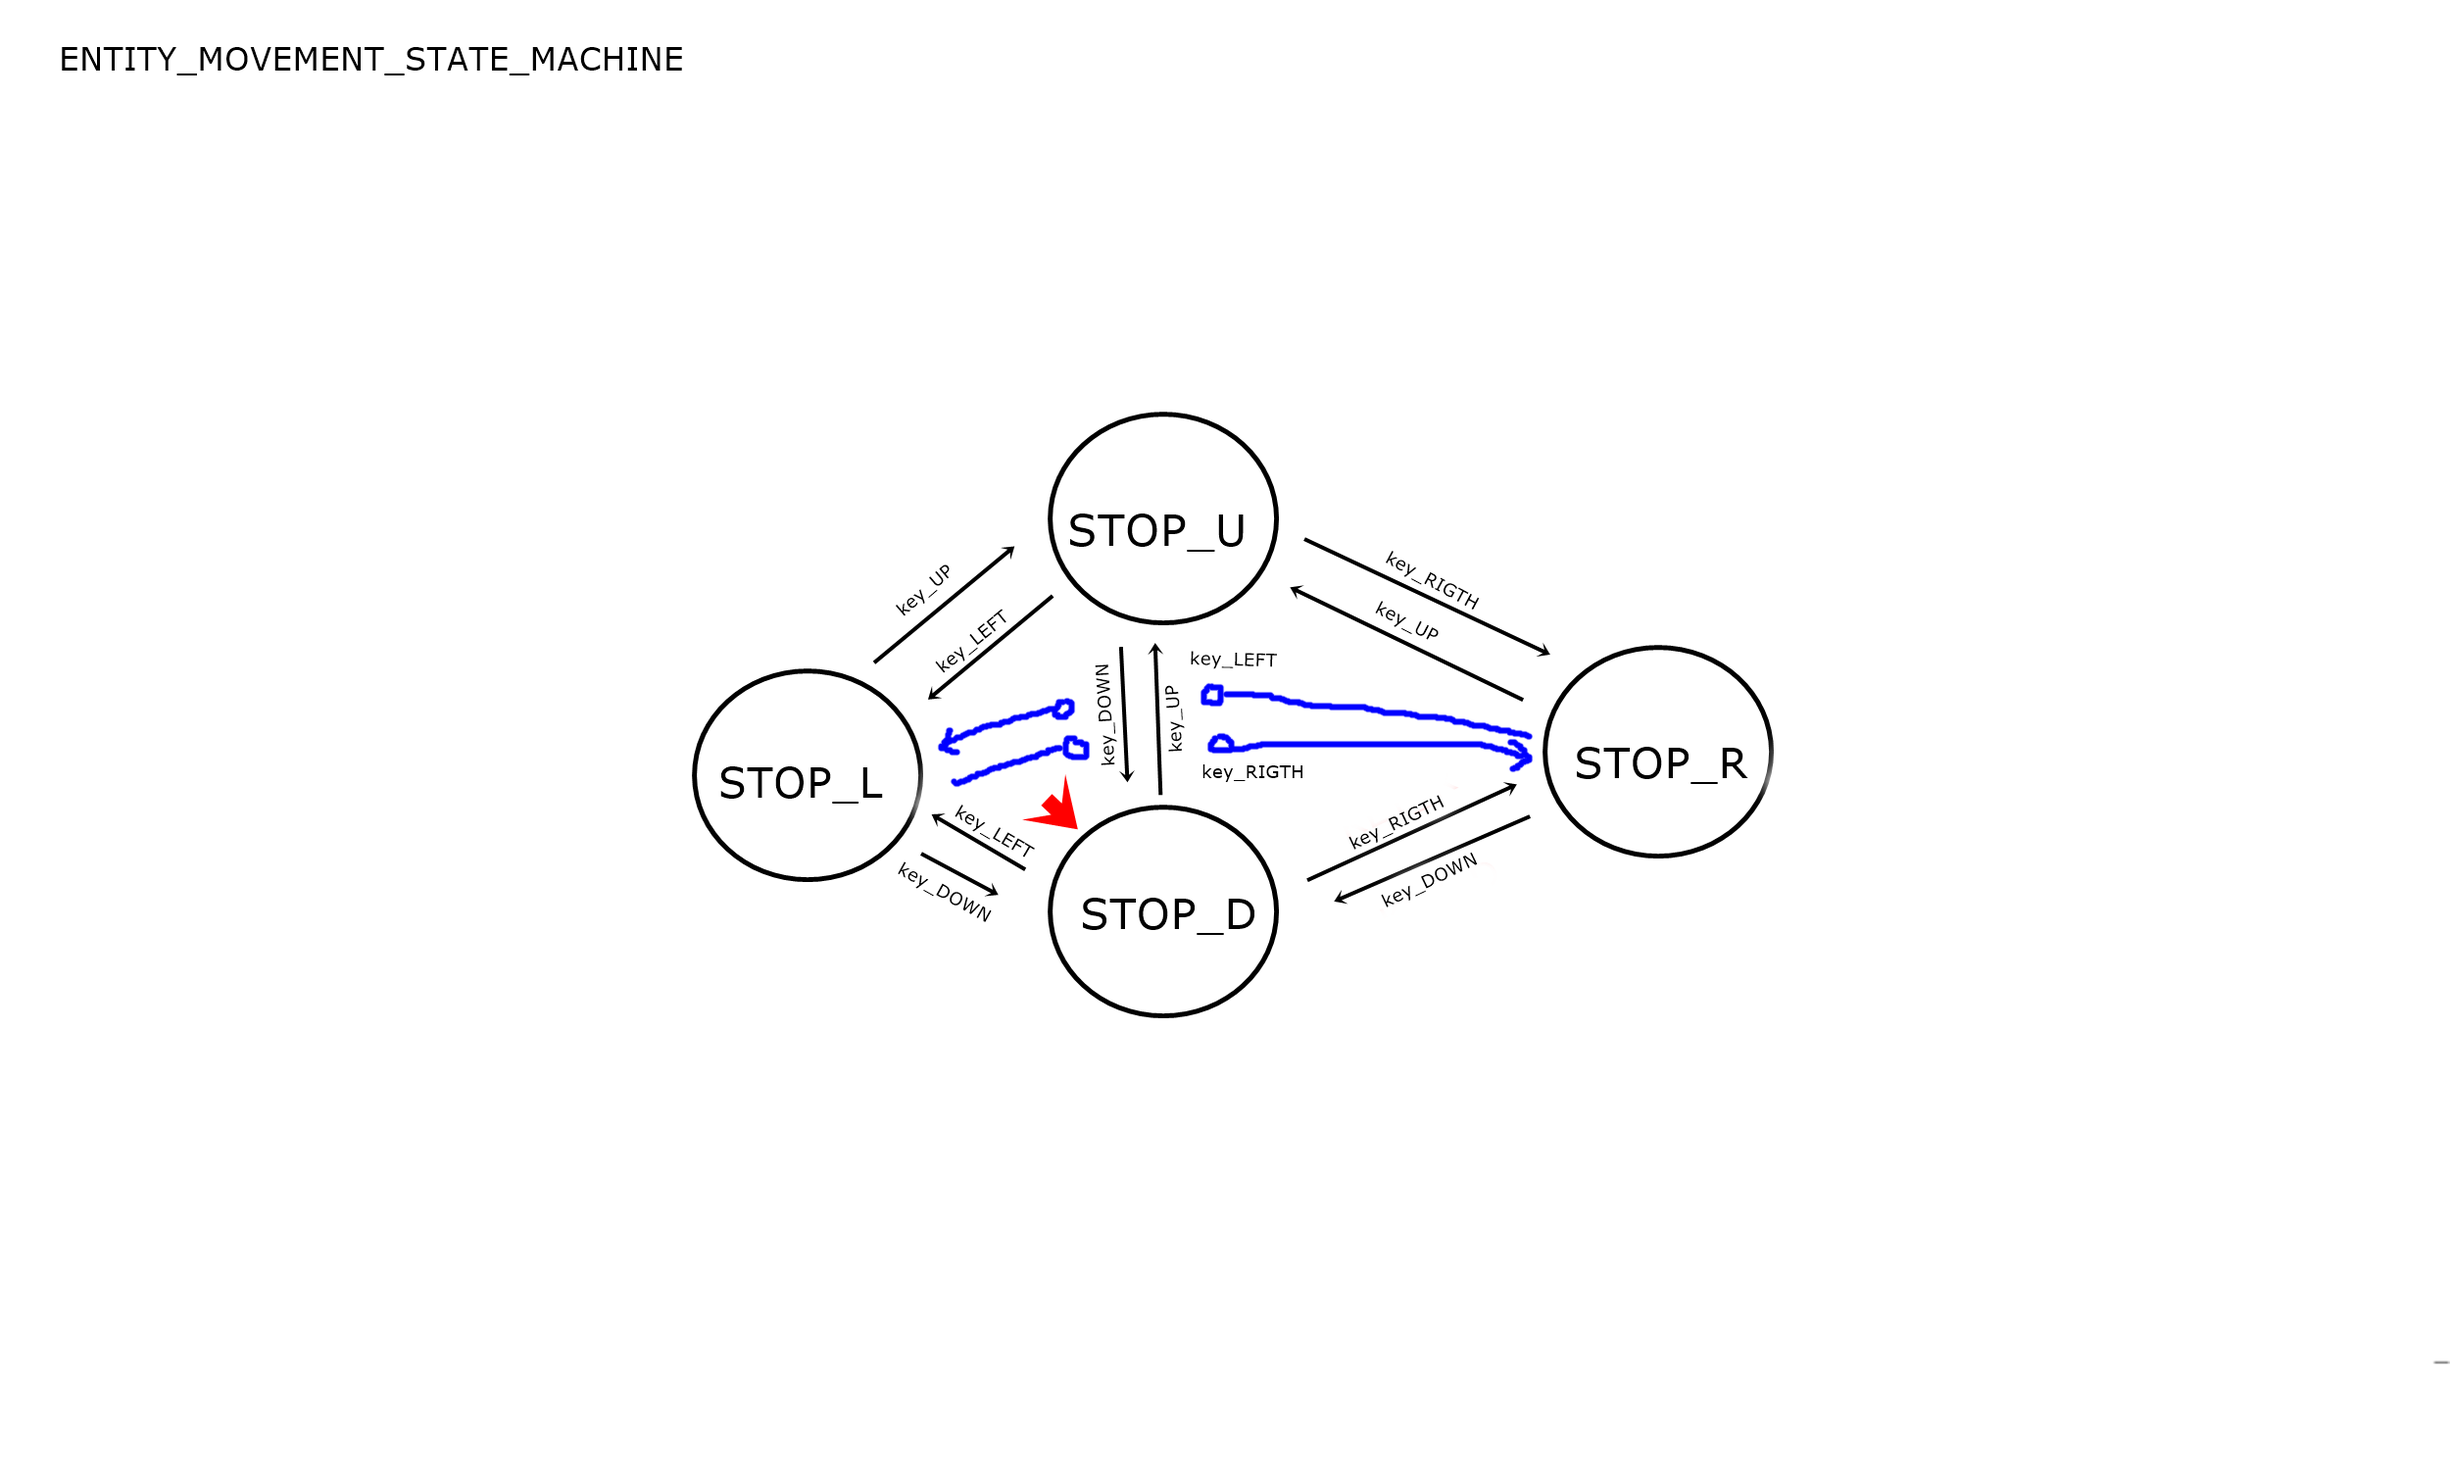
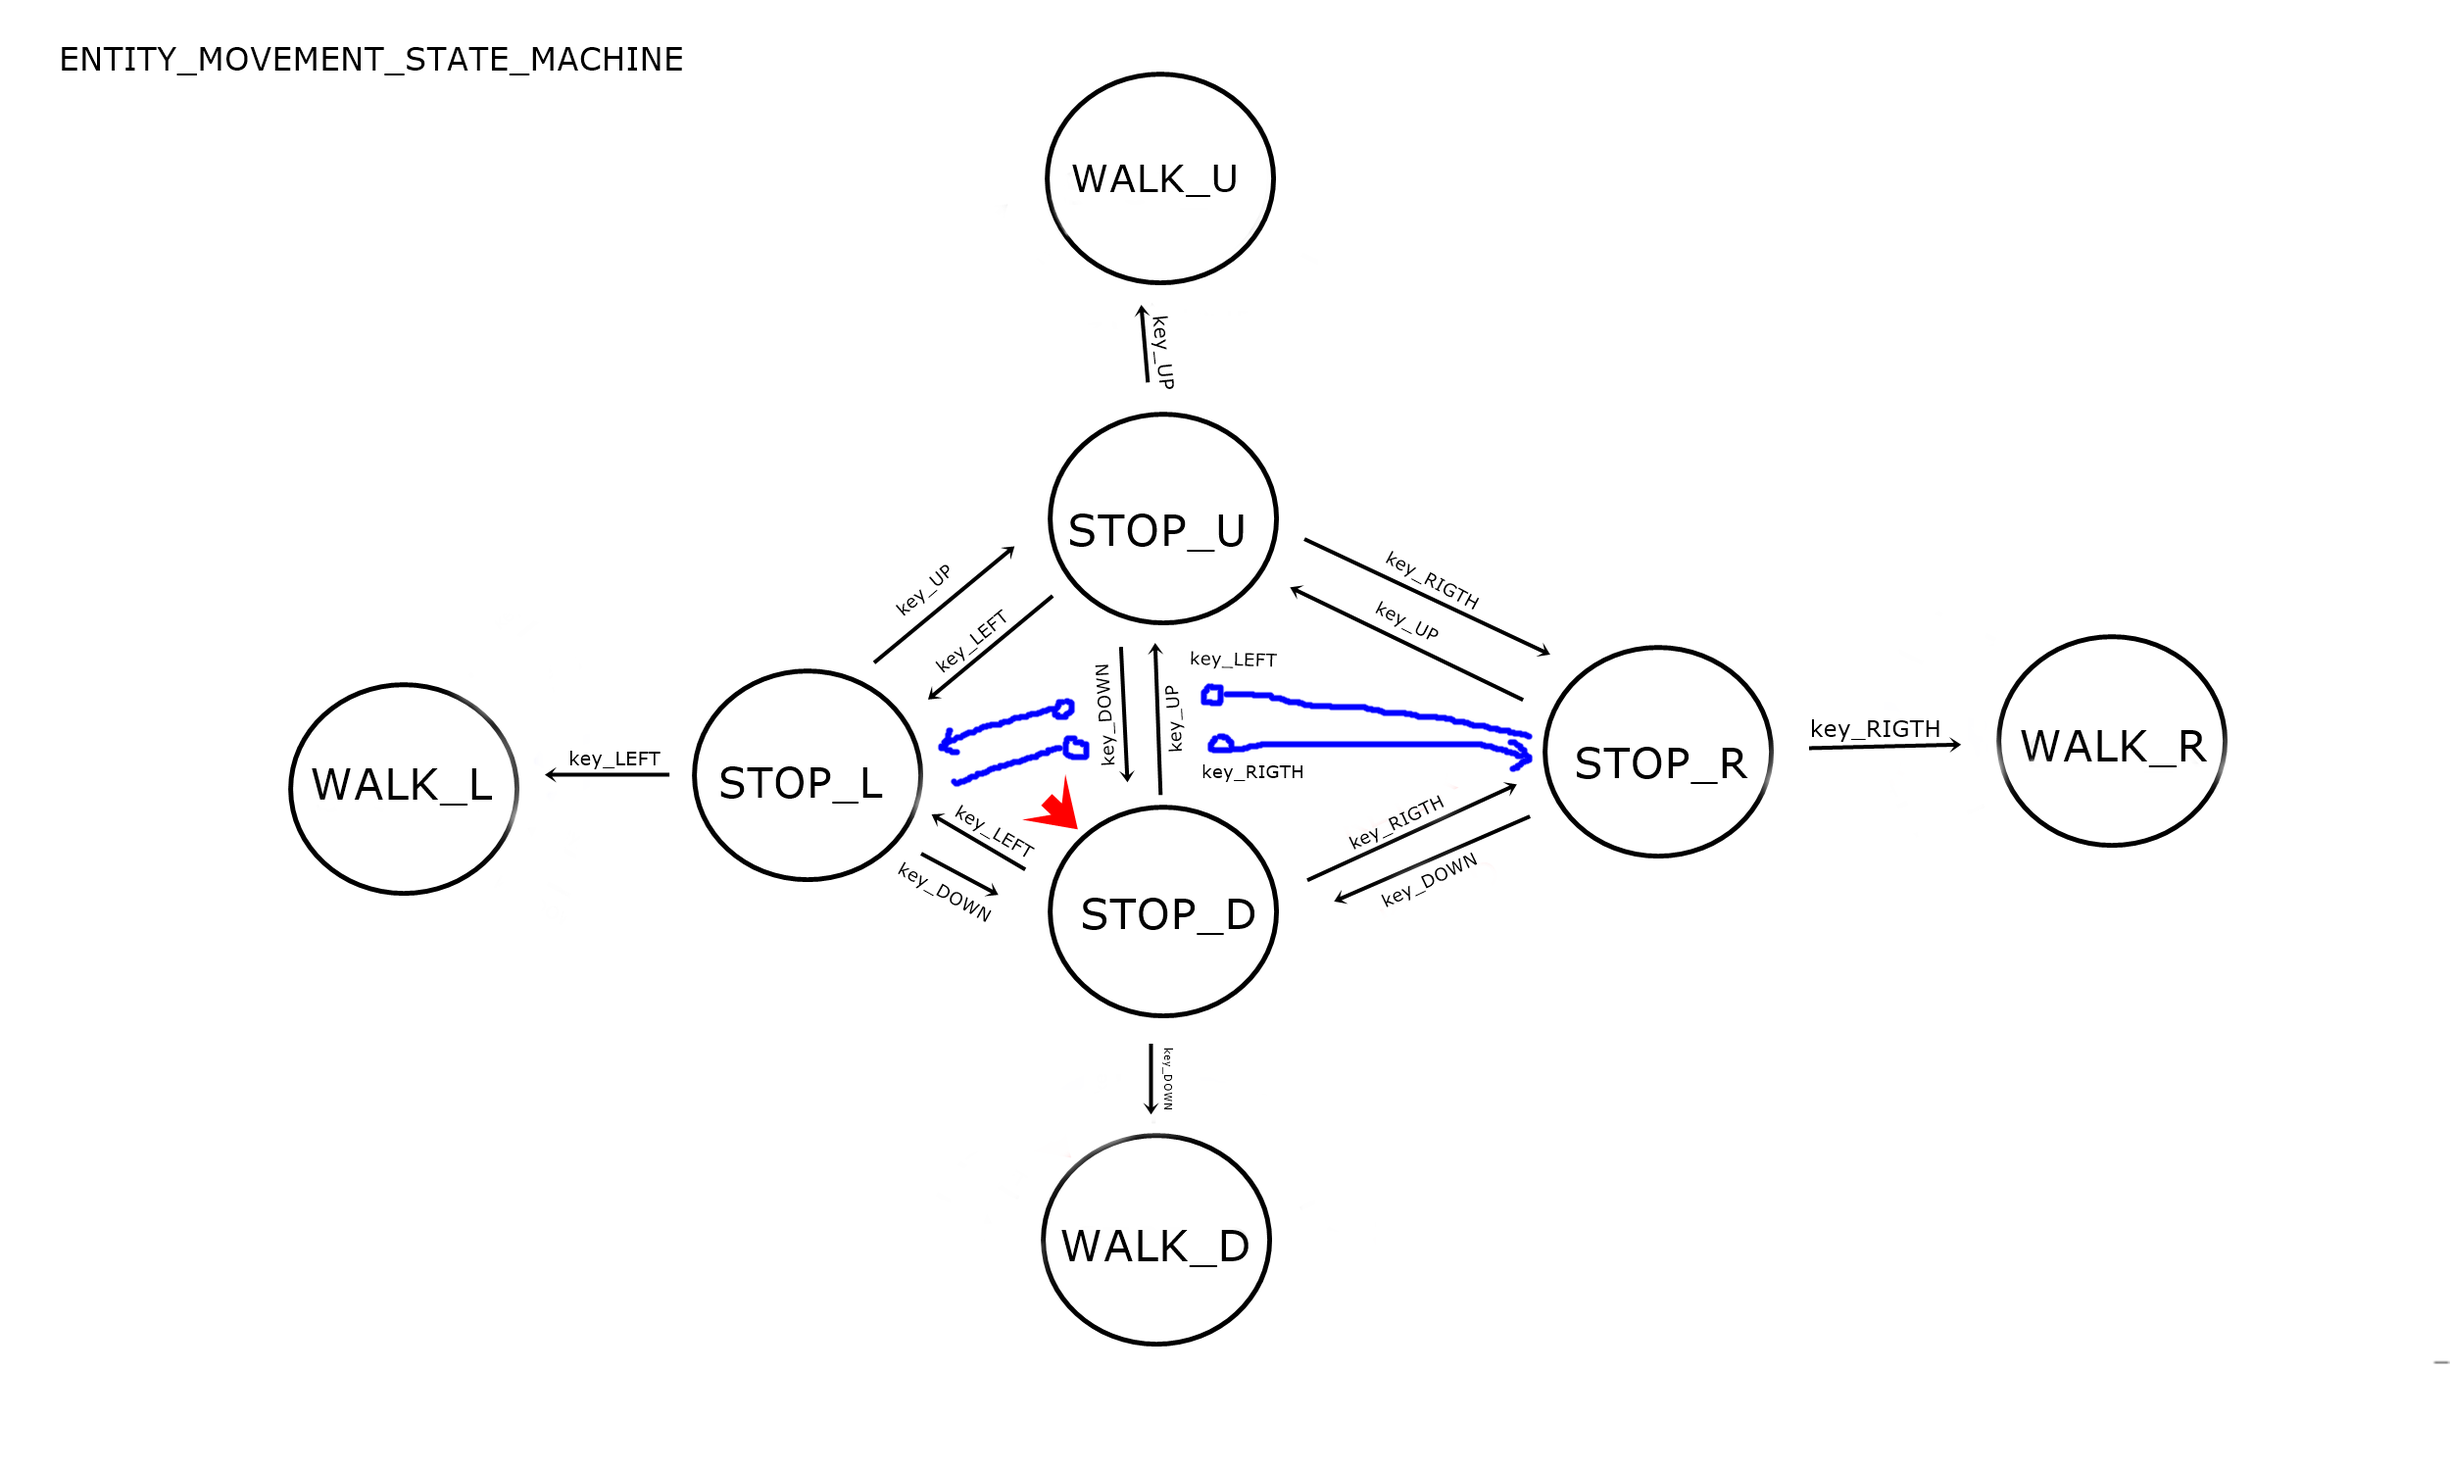
WIP: Animations

diff --git a/src/core/controller.py b/src/core/controller.py
@@ -44,7 +44,8 @@ class Controller:
         self.dt = 1.0 / float(self.config.get("FPS"))
         self.logger = GameLogger.get_instance(self.config)
         self.logger.info(f"CONTROLLERGAME::MEMORY::DATA::SIZE:{self.config.get_config_memory_kb():.2f}KB")
-        self.logger.info(f"CONTROLLERGAME::GAME::STATE_MACHINES::{self.config.get("statesMachines")}")
+        self.logger.info(f"CONTROLLERGAME::GAME::STATE_MACHINES::{self.config.get("statesMachines").keys()}")
+        print(self.config.get("statesMachines"))
         self.control = Control(
             self.config.get('key_UP'),
             self.config.get('key_RIGTH'),
@@ -59,10 +60,10 @@ class Controller:
             self.config.get('key_L'),
             self.config.get('key_R')
         )
-        # Player
-        self.player = Player(self.config)
         # Sprites & IMAGES
         self.assetManager = AssetManager.get_instance()
+        # Player
+        self.player = Player(self.config)
         self._load_assets()
         # Game fun Machines
         self.current_state = None
@@ -145,13 +146,22 @@ class Controller:
         self.assetManager.save_images_group("advisory" , f"assets/images/{self.config.get("displayH")}/advisory.gif")
         self.assetManager.save_images_group("mainMenu" , f"assets/images/{self.config.get("displayH")}/mainMenu.gif")
 
-        player_sprites = {
-            "up": f"assets/images/{self.config.get("displayH")}/skins/player/{self.config.get("player_look_up")}",
-            "left": f"assets/images/{self.config.get("displayH")}/skins/player/{self.config.get("player_look_left")}",
-            "right": f"assets/images/{self.config.get("displayH")}/skins/player/{self.config.get("player_look_right")}",
-            "down": f"assets/images/{self.config.get("displayH")}/skins/player/{self.config.get("player_look_down")}"
-        }
-        self.assetManager.save_sprite_group("player", player_sprites)
+        _animated_sprite_group = {}
+        for itterStateAnimated in self.config.get("statesMachines")["animatedEntity"]["states"]:
+            _sprite = itterStateAnimated
+            _pathSprite = f"assets/images/{self.config.get("displayH")}/skins/player/{_sprite}.png"
+            _animated_sprite_group[_sprite] = _pathSprite
+            
+        _animated_sprite_group["up"] = f"assets/images/{self.config.get("displayH")}/skins/player/{self.config.get("player_look_up")}"
+        _animated_sprite_group["left"] = f"assets/images/{self.config.get("displayH")}/skins/player/{self.config.get("player_look_left")}"
+        _animated_sprite_group["right"] = f"assets/images/{self.config.get("displayH")}/skins/player/{self.config.get("player_look_right")}"
+        _animated_sprite_group["down"] = f"assets/images/{self.config.get("displayH")}/skins/player/{self.config.get("player_look_down")}"
+
+        try:
+            self.assetManager.save_sprite_group("animated", _animated_sprite_group)
+        except Exception as e:
+            self.logger.error(f"CONTROLLER::GAME::CREATE_SPRITES::FAILED_GROUP::{_animated_sprite_group}")
+            self.logger.error(f"CONTROLLERGAME::GAME::CREATE_SPRITES::ASSET_MANAGER_ERROR::{type(e).__name__}::{e}")
 
     def _exitGame(self, data):
         self.logger.info(f"CONTROLLERGAME::GAME::{data}::EXIT")

diff --git a/src/entities/player.py b/src/entities/player.py
@@ -9,6 +9,7 @@ from src.ecs.components import (
     HealthComponent,
     PositionComponent,
     SizeComponent,
+    AnimationStateMachineComponent,
     VelocityComponent,
     DirectionComponent,
     SpriteCoordsComponent,
@@ -51,6 +52,7 @@ class Player(Entity):
         ))
         self.add_component(PositionComponent(config.get("displayW")/4,config.get("displayH")/4))
         self.add_component(SizeComponent(config.get("player_w"),config.get("player_h")))
+        self.add_component(AnimationStateMachineComponent("animatedEntity", config.get('statesMachines')['animatedEntity']['initial']))
         self.add_component(StatisticsComponent(config.get("statistics")))
         stats = self.get_component(StatisticsComponent).statistics
         self.add_component(VelocityComponent(int(stats.velocity)))
@@ -63,12 +65,20 @@ class Player(Entity):
         self.assetManager = assetManager
 
     def getPlayerSprite(self):
+        # UPDATE DIRECTION
         direction = self.get_component(DirectionComponent)
         if direction.current_directions:
             current_dir = next(iter(direction.current_directions))
         else:
             current_dir = direction.last_direction
-        return self.assetManager.get_sprite("player", current_dir)
+
+        # UPDATE ANIMATION
+        animation = self.get_component(AnimationStateMachineComponent)
+        return self.assetManager.get_sprite("animated", animation.state)
+    
+    def updateAnimationStateMachineComponent(self, animationPointer):
+        animation = self.get_component(AnimationStateMachineComponent)
+        animation.state = animationPointer
 
     def getSpriteRenderCoords(self):
         sprite_coords = self.get_component(SpriteCoordsComponent)

diff --git a/src/core/control.py b/src/core/control.py
@@ -22,3 +22,26 @@ class Control(object):
         self.keyResult = [key_UP, key_RIGTH, key_DOWN, key_LEFT, key_SELECT, key_START, key_B, key_A, key_Y, key_X, key_L, key_R] # Save all number code of keyboard
         self.direction_buttons = [key_UP, key_RIGTH, key_DOWN, key_LEFT]
         self.action_buttons = [key_B, key_A, key_Y, key_X, key_L, key_R]
+
+        self.key_map = {
+            key_UP: "key_UP",
+            key_RIGTH: "key_RIGTH",
+            key_DOWN: "key_DOWN",
+            key_LEFT: "key_LEFT",
+            key_SELECT: "key_SELECT",
+            key_START: "key_START",
+            key_B: "key_B",
+            key_A: "key_A",
+            key_Y: "key_Y",
+            key_X: "key_X",
+            key_L: "key_L",
+            key_R: "key_R"
+        }
+
+    def getNameByInput(self, input):
+        """
+        Return str name of key event
+    
+        :param input: KEY PRESS EVENT
+        """
+        return self.key_map.get(input, None)

diff --git a/src/core/inputHandler.py b/src/core/inputHandler.py
@@ -44,6 +44,9 @@ class InputHandler:
             command = self.press_commands.get(keycode)
             if command:
                 command.execute(self.player)
+                self.gameStateManager.getStateMachine("animatedEntity").mouvePointer(str(keycode))
+                self.player.updateAnimationStateMachineComponent(self.gameStateManager.getStateMachine("animatedEntity").pointer)
+
             if keycode == self.control.key_B:
                 print("B")
             if keycode == self.control.key_A:

diff --git a/src/ecs/components.py b/src/ecs/components.py
@@ -144,6 +144,11 @@ class SizeComponent(Component):
         self.w = w
         self.h = h
 
+class AnimationStateMachineComponent(Component):
+    def __init__(self, machine_id: str, initial_state: str = None):
+        self.machine_id = machine_id
+        self.state = initial_state
+
 class VelocityComponent(Component):
     def __init__(self, velocity=0):
         self.velocity = velocity

diff --git a/src/core/stateMachine.py b/src/core/stateMachine.py
@@ -55,7 +55,7 @@ class StateMachine:
         Enter a symbol and the poiter mouve
         """
         for i in self.edges[self.pointer]:
-            if symbol == i[1]:
+            if str(symbol) == str(i[1]):
                 #print("Me he movido a", i[0])
                 # Mouve a pivot
                 self.pointer = i[0]

diff --git a/src/core/GameConfig.py b/src/core/GameConfig.py
@@ -40,6 +40,9 @@ class GameConfig:
         return self._config.get(key, default)
     
     def get_config_memory_kb(self) -> float:
+        """
+        Only for get X Kb of size in RAM.
+        """
         def deep_size(obj, seen=None):
             if seen is None:
                 seen = set()
